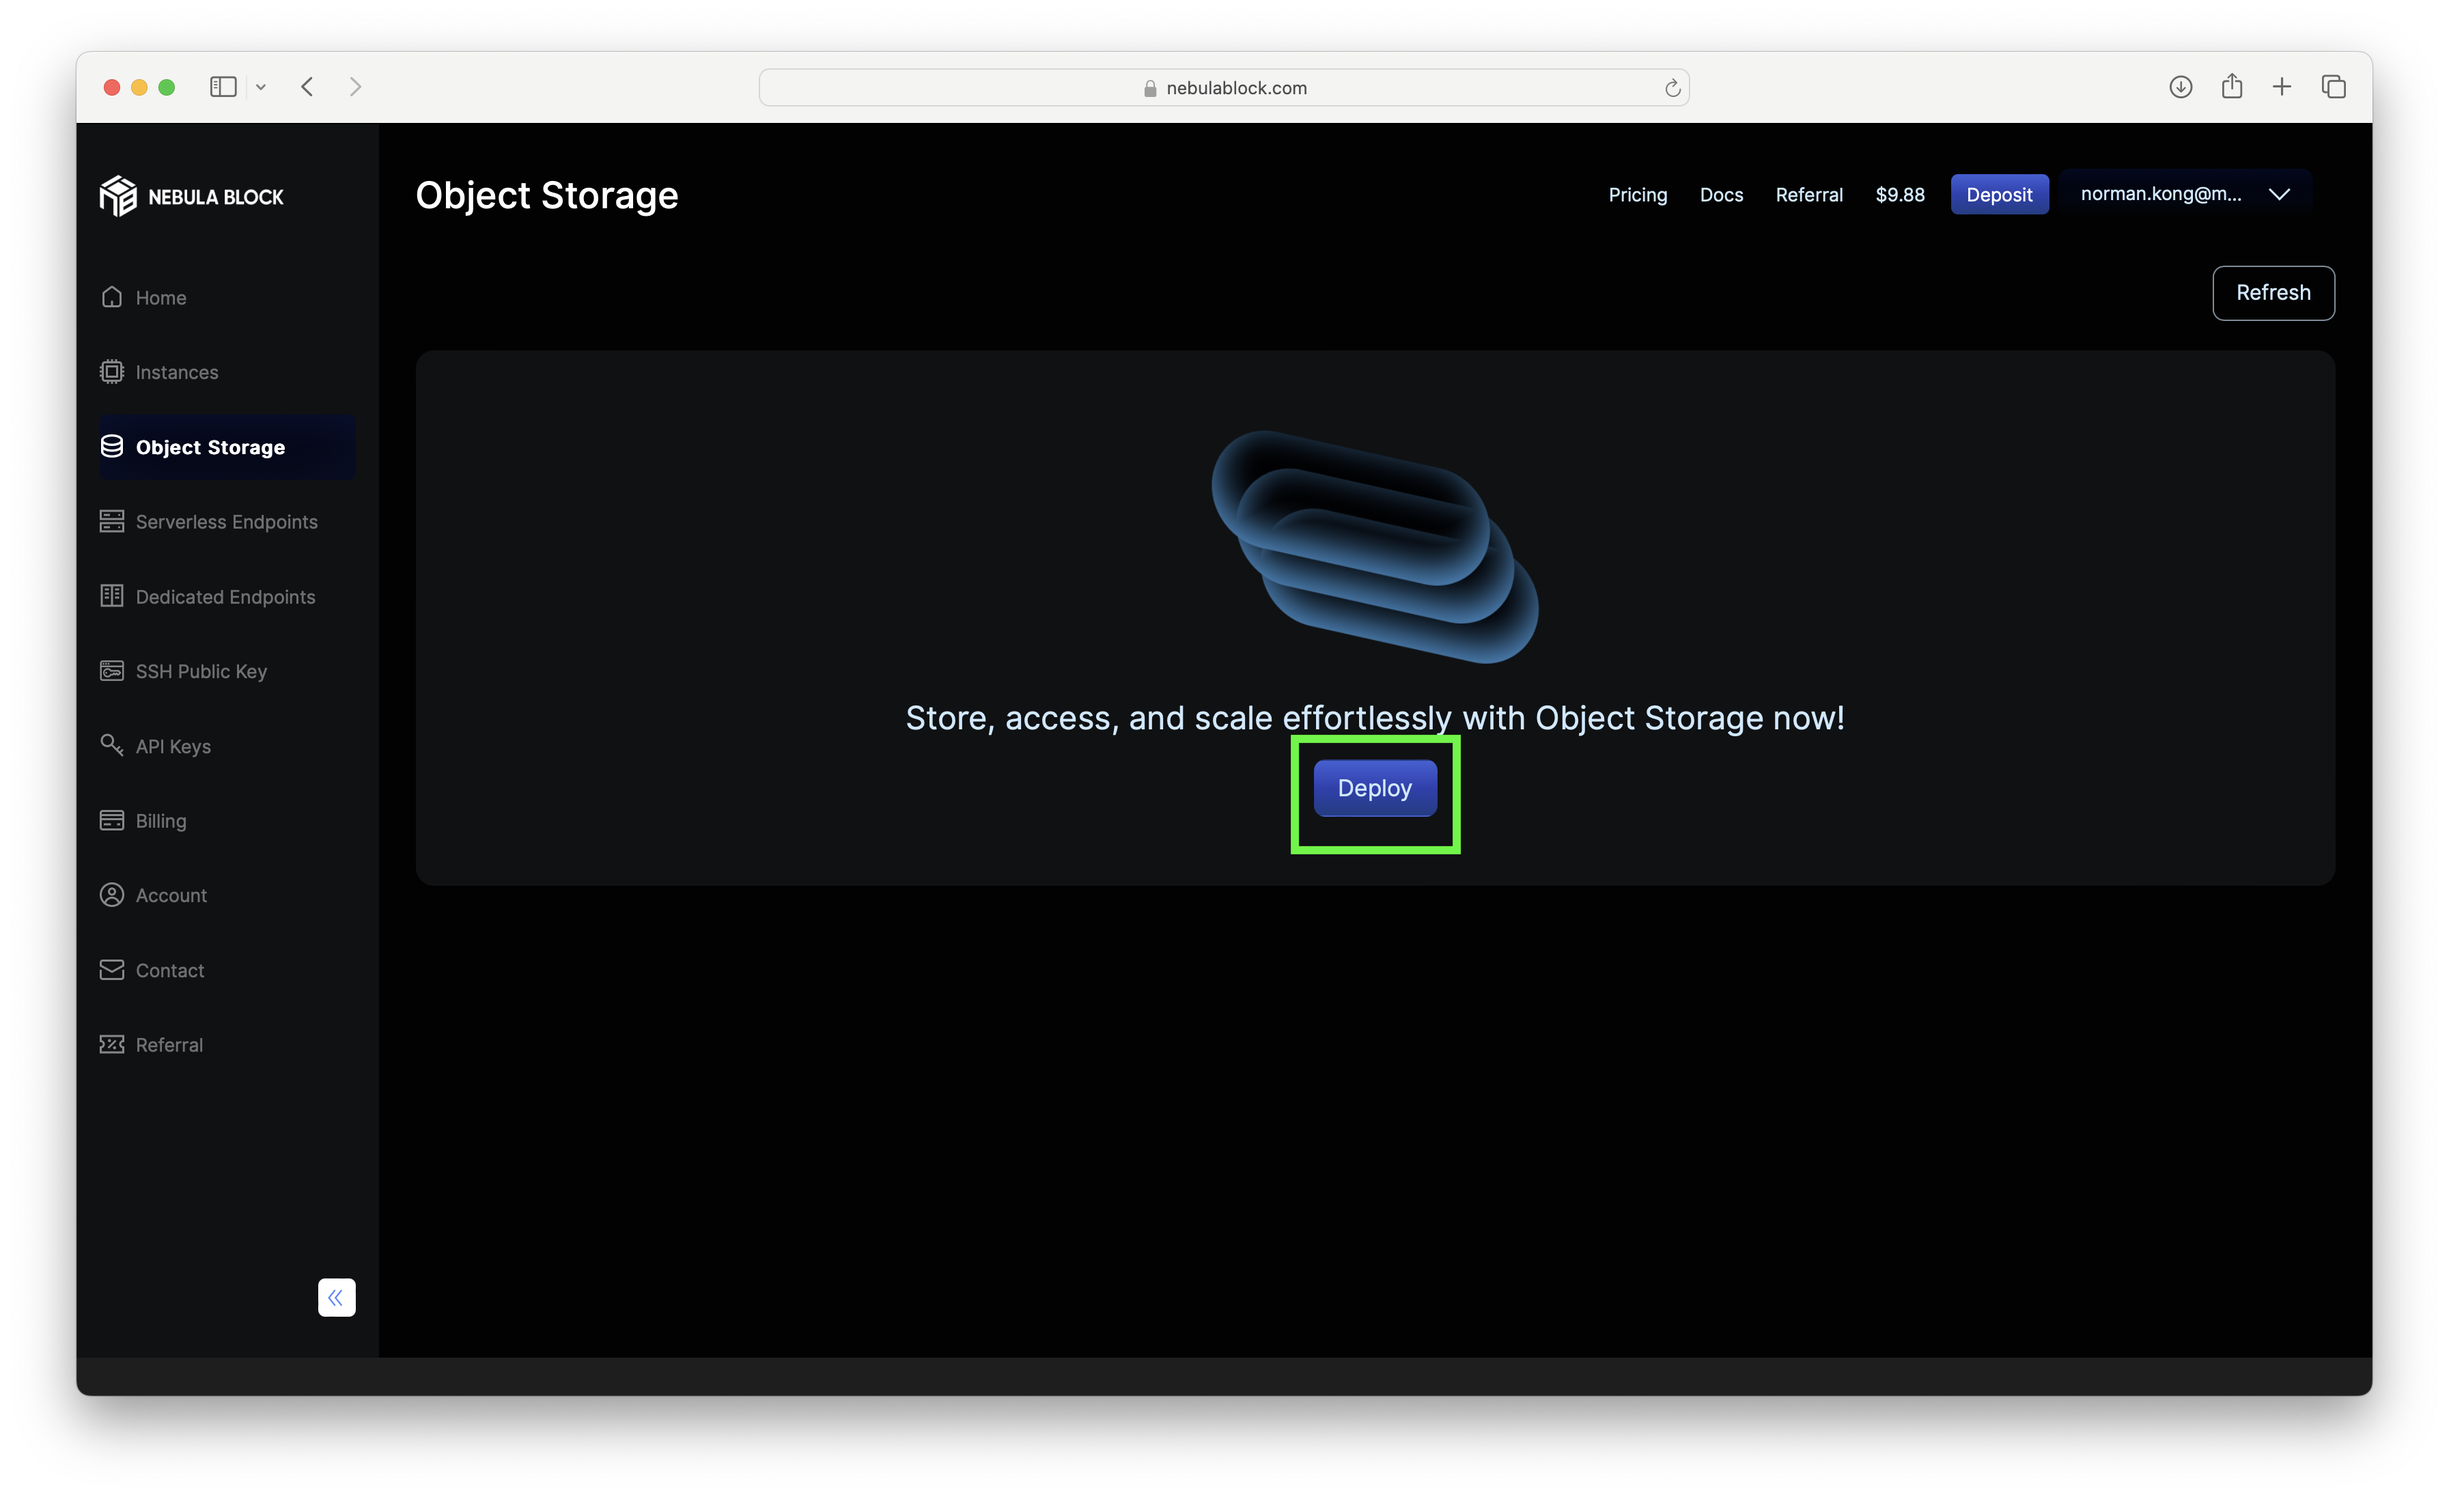
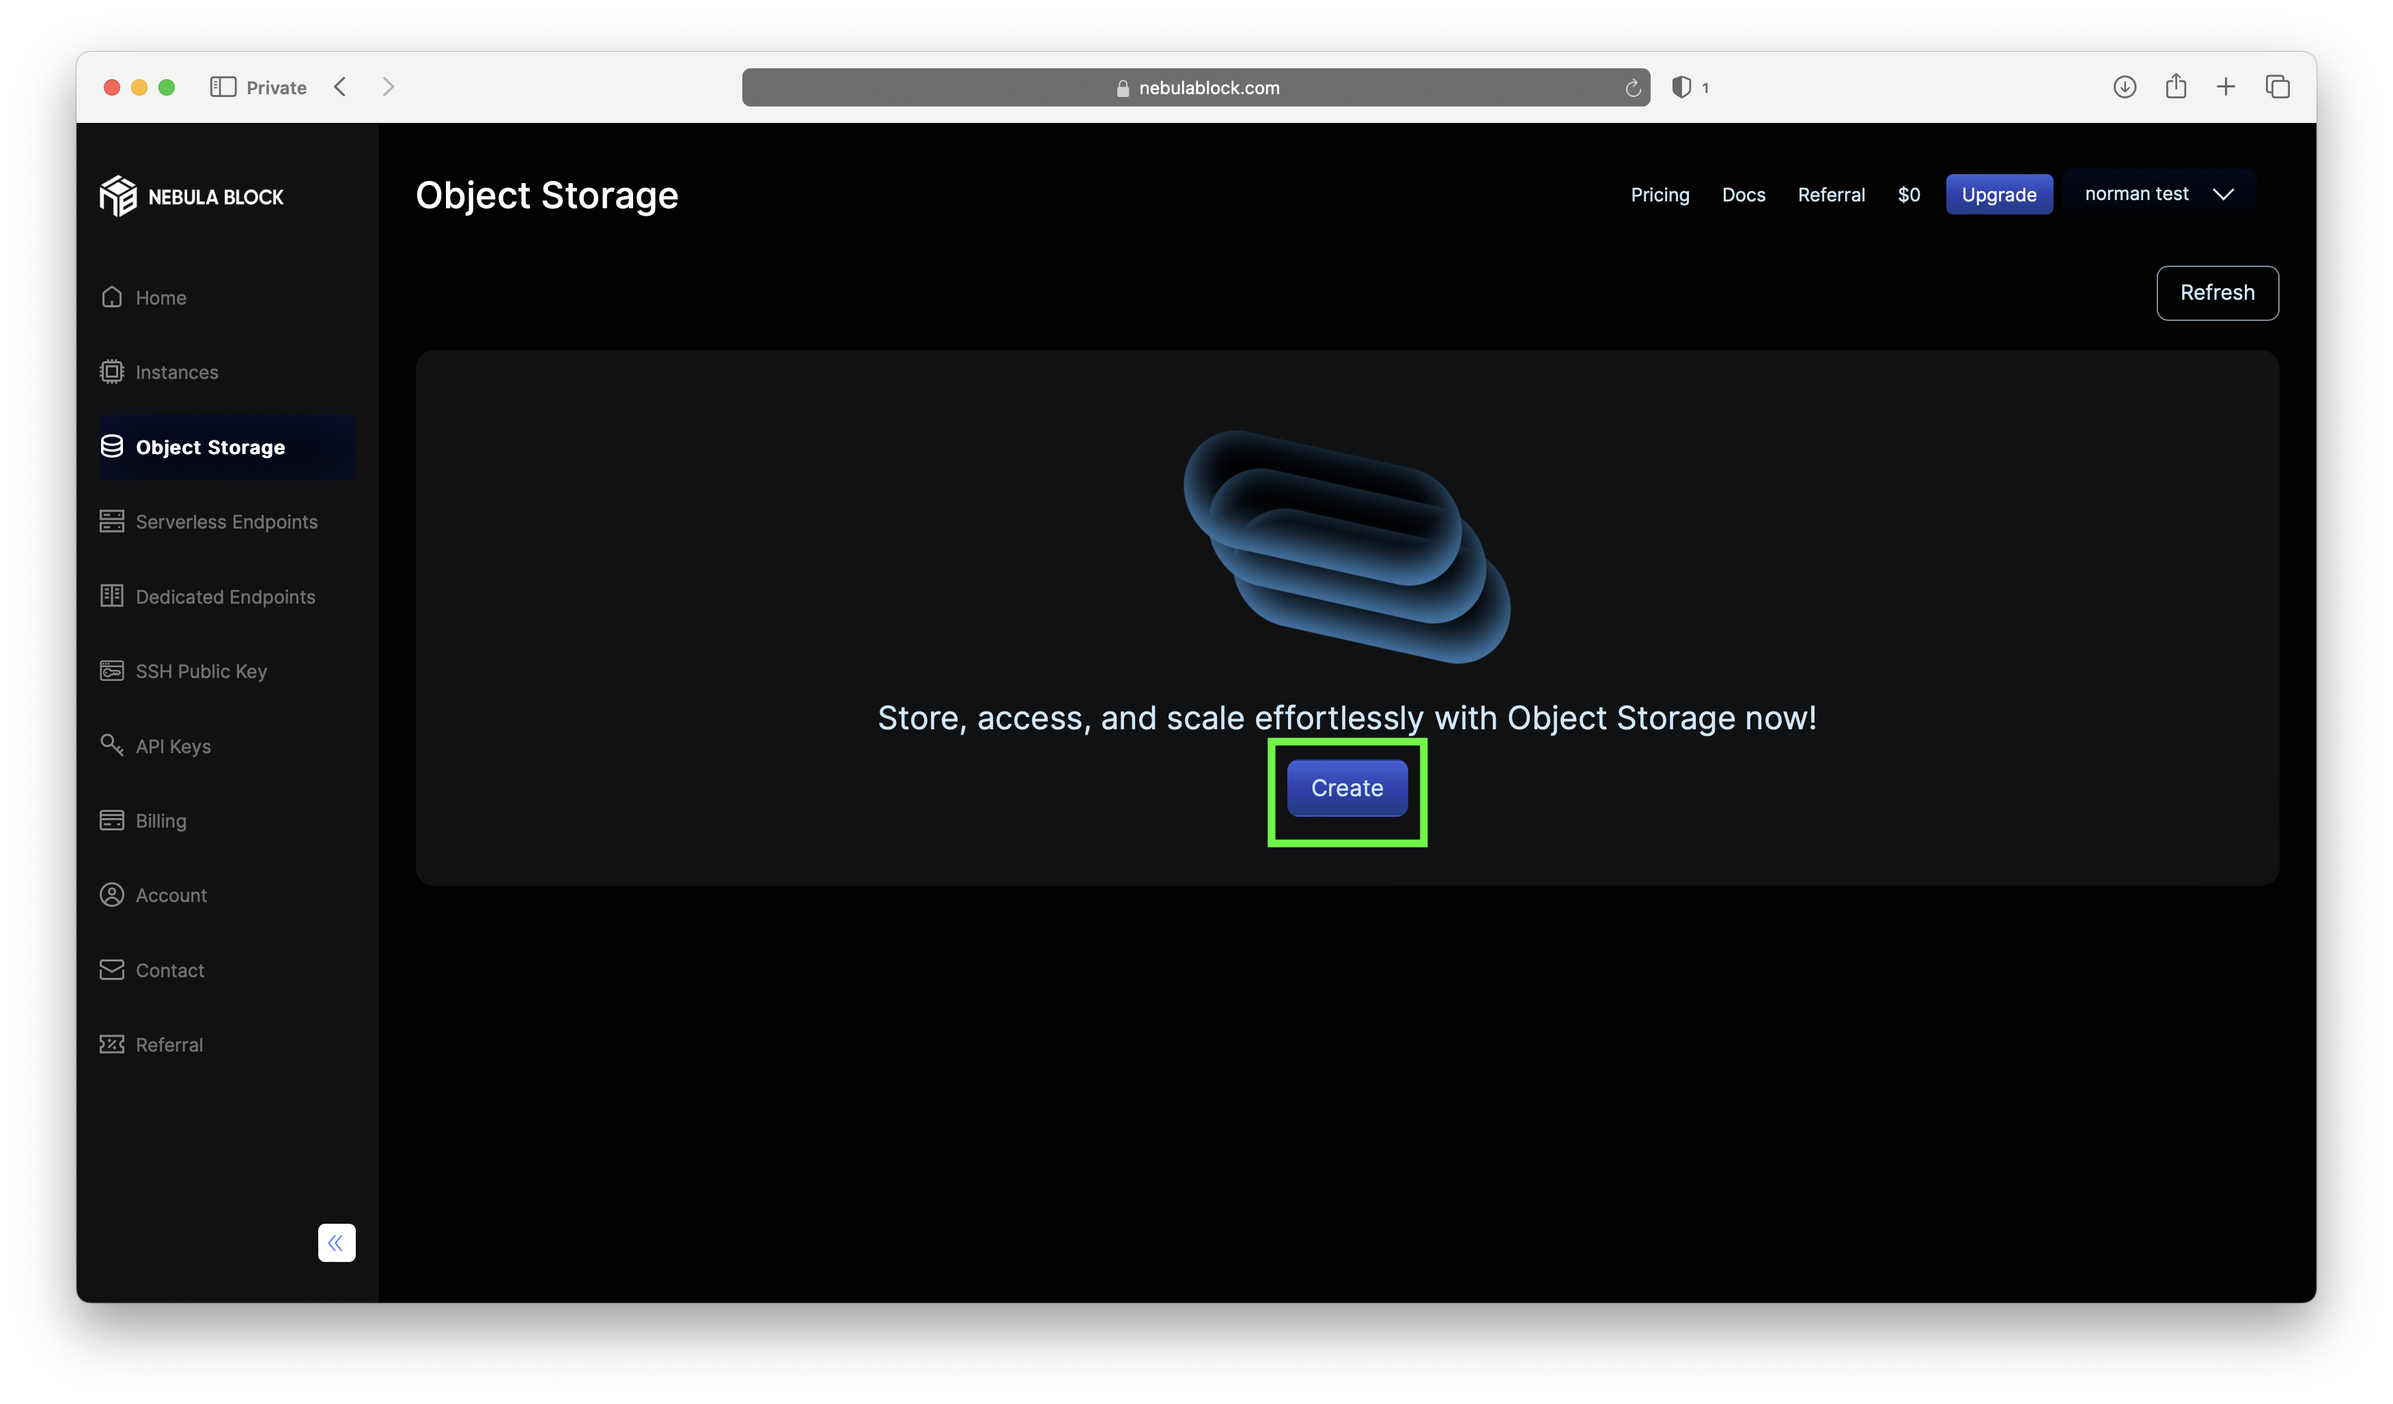
done

diff --git a/Object_Storage/Getting_Started.md b/Object_Storage/Getting_Started.md
@@ -1,10 +1,13 @@
-# Starting Your Deployment 
+# Starting Your Object Storage 
 
 1. Navigate to the **Object Storage** tab, and click **Deploy**.
+
 ![1.1](../assets/images/storage_linux_tutorial/1.png)
 
 2. Select your configuration, a **unique name** and click **Create**.
+
 ![1.2](../assets/images/storage_linux_tutorial/2.png)
+
 3. Your new storage deployment should now appear in the list.
 
 ![1.3](../assets/images/storage_linux_tutorial/3.png)
